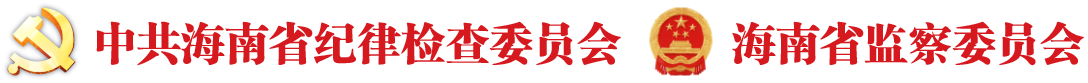
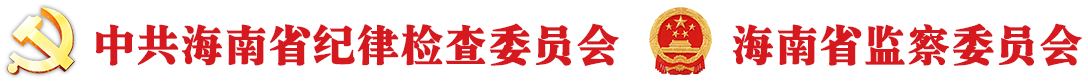
与开发代码同步

diff --git a/lzw/v2/css/ztjj.css b/lzw/v2/css/ztjj.css
@@ -1,0 +1,94 @@
+.wh100 {
+  width: 100%;
+}
+.no-left-border {
+  border-left: none;
+}
+.no-bottom-border {
+  border-bottom: none;
+}
+.lzw-info-content .lzw-info-list-wrap .list-top {
+  margin-top: 24px;
+  margin-bottom: 24px;
+  min-height: 316px;
+  padding: 0 48px;
+}
+.lzw-info-content .lzw-info-list-wrap .list-top .lzw-info-list-item {
+  width: 100%;
+}
+.lzw-info-content .lzw-info-list-wrap .list-top .lzw-info-list-item .item-img {
+  /*border-bottom: 1px dashed #ccc;*/
+  padding: 12px 0;
+}
+.lzw-info-content .lzw-info-list-wrap .list-top .lzw-info-list-item a {
+  width: 100%;
+}
+.lzw-info-content .lzw-info-list-wrap .list-top .lzw-info-list-item img {
+  width: calc(100% - 60px);
+  height: 100px;
+}
+.jfbg-model-class {
+  border-bottom: 1px solid #1e41b9;
+  height: 48px;
+}
+.list-top-title {
+  background-color: #064EC0;
+  font-size: 22px;
+  line-height: 48px;
+  float: left;
+  color: #fff;
+  text-align: center;
+  height: 48px;
+  vertical-align: middle;
+  padding: 0 12px;
+  letter-spacing: 2px;
+  font-weight: 400;
+}
+.list-more {
+  font-size: 16px;
+  color: #1e41b9;
+  float: right;
+  vertical-align: bottom;
+  line-height: 48px;
+  height: 18px;
+  margin-right: 24px;
+}
+.list-top .title {
+  display: flex;
+  justify-content: flex-start;
+  align-items: center;
+}
+.list-top .title p {
+  display: flex;
+  align-items: center;
+}
+.list-top .title p i {
+  display: inline-block;
+  height: 20px;
+  width: 8px;
+  background-color: #064ec0;
+  margin-top: 2px;
+}
+.list-top .title p a {
+  color: #064ec0;
+  font-size: 24px;
+  font-weight: bold;
+  margin: 0 18px 0 12px;
+  width: auto;
+  max-width: 580px;
+  white-space: nowrap;
+  text-overflow: ellipsis;
+  overflow: hidden;
+}
+.list-top .title .fg {
+  display: inline-block;
+  height: 4px;
+  background-color: #ECEEEF;
+  border-radius: 1px;
+  min-width: 20px;
+}
+.list-top .title .more {
+  margin: 0 40px 0px 18px;
+  width: auto;
+}
+/*# sourceMappingURL=ztjj.css.map */

diff --git a/lzw/v2/css/ztjj.less b/lzw/v2/css/ztjj.less
@@ -1,0 +1,110 @@
+.wh100 {
+  width: 100%;
+}
+.no-left-border {
+  border-left: none;
+}
+.no-bottom-border {
+  border-bottom: none;
+}
+.lzw-info-content {
+  .lzw-info-list-wrap {
+    .list-top {
+      margin-top: 24px;
+      margin-bottom: 24px;
+      min-height: 316px;
+      padding: 0 48px;
+      .lzw-info-list-item {
+        width: 100%;
+        .item-img{
+            /*border-bottom: 1px dashed #ccc;*/
+          padding: 12px 0;
+        }
+         a{
+           width: 100%;
+         }
+          img {
+            width: calc(100% - 60px);
+            height: 100px
+          }
+      }
+    }
+  }
+}
+
+
+.jfbg-model-class {
+  border-bottom: 1px solid #1e41b9;
+  height: 48px;
+}
+
+.list-top-title {
+  background-color: #064EC0;
+  font-size: 22px;
+  line-height: 48px;
+  float: left;
+  color: #fff;
+  text-align: center;
+  height: 48px;
+  vertical-align: middle;
+  padding: 0 12px;
+  letter-spacing: 2px;
+  font-weight: 400;
+}
+
+.list-more {
+  font-size: 16px;
+  color: #1e41b9;;
+  float: right;
+  vertical-align: bottom;
+  line-height: 48px;
+  height: 18px;
+  margin-right: 24px;
+
+}
+
+.list-top .title {
+  display: flex;
+  justify-content: flex-start;
+  align-items: center;
+}
+
+.list-top .title p {
+  display: flex;
+  align-items: center;
+}
+
+.list-top .title p i {
+  display: inline-block;
+  height: 20px;
+  width: 8px;
+  background-color: #064ec0;
+  margin-top: 2px;
+}
+
+.list-top .title p a {
+  color: #064ec0;
+  font-size: 24px;
+  font-weight: bold;
+  margin: 0 18px 0 12px;
+  width: auto;
+  max-width: 580px;
+  white-space: nowrap;
+  text-overflow: ellipsis;
+  overflow: hidden;
+}
+
+.list-top .title .fg {
+  display: inline-block;
+  height: 4px;
+  background-color: #ECEEEF;
+  border-radius: 1px;
+  min-width: 20px;
+}
+
+.list-top .title .more {
+  margin: 0 40px 0px 18px;
+  width: auto;
+
+}
+

diff --git a/lzw/v2/css/jdjb.css b/lzw/v2/css/jdjb.css
@@ -1,16 +1,18 @@
 .lzw-detail-content-wrap .jbbg {
-  background: url(../imgs/jbbg.png) no-repeat;
-  background-size: cover;
-  height: 270px;
+  /* background: url(../imgs/jbbg.png) no-repeat;
+    background-size: cover;*/
+  background: #fff;
+  height: 150px;
   display: flex;
   justify-content: center;
   align-items: center;
+  border-bottom: 4px solid #ccc;
 }
 .lzw-detail-content-wrap .jbbg .jbcx {
-  background: url("../imgs/tbbj.png") no-repeat;
-  background-size: cover;
-  width: 232px;
-  height: 98px;
+  /* background: url("../imgs/tbbj.png") no-repeat;
+      background-size: cover;
+      width: 232px;
+      height: 98px;*/
   margin-right: 72px;
   display: flex;
   justify-content: center;
@@ -28,11 +30,13 @@
   color: #fff;
 }
 .lzw-detail-content-wrap .jbbg .jbcx .wyjb-add {
-  background: url("../imgs/jbed.png") no-repeat;
-  background-size: cover;
-  width: 38px;
-  height: 34px;
+  /* background: url("../imgs/jbed.png") no-repeat;
+        background-size: cover;*/
   margin-right: 10px;
+}
+.lzw-detail-content-wrap .jbbg .jbcx .wyjb-add img {
+  width: 100%;
+  height: 100%;
 }
 .lzw-detail-content-wrap .list {
   margin-top: 42px;
@@ -61,7 +65,7 @@
 }
 .lzw-detail-content-wrap .list .title .fg {
   display: inline-block;
-  height: 2px;
+  height: 4px;
   width: 842px;
   background-color: #ECEEEF;
   border-radius: 1px;

diff --git a/lzw/v2/css/jdjb.less b/lzw/v2/css/jdjb.less
@@ -1,16 +1,18 @@
 .lzw-detail-content-wrap {
   .jbbg {
-    background: url(../imgs/jbbg.png) no-repeat;
-    background-size: cover;
-    height: 270px;
+   /* background: url(../imgs/jbbg.png) no-repeat;
+    background-size: cover;*/
+    background: #fff;
+    height: 150px;
     display: flex;
     justify-content: center;
     align-items: center;
+    border-bottom: 4px solid #ccc;
     .jbcx{
-      background: url("../imgs/tbbj.png") no-repeat;
+     /* background: url("../imgs/tbbj.png") no-repeat;
       background-size: cover;
       width: 232px;
-      height: 98px;
+      height: 98px;*/
       margin-right: 72px;
       display: flex;
       justify-content: center;
@@ -27,11 +29,14 @@
         color: #fff;
       }
       .wyjb-add{
-        background: url("../imgs/jbed.png") no-repeat;
-        background-size: cover;
-        width: 38px;
-        height: 34px;
+       /* background: url("../imgs/jbed.png") no-repeat;
+        background-size: cover;*/
+
         margin-right: 10px;
+        img {
+          width: 100%;
+          height: 100%;
+        }
       }
 
 
@@ -68,7 +73,7 @@
 
       .fg {
         display: inline-block;
-        height: 2px;
+        height: 4px;
         width: 842px;
         background-color: #ECEEEF;
         border-radius: 1px;

diff --git a/lzw/v2/css/level2List.css b/lzw/v2/css/level2List.css
@@ -33,3 +33,41 @@
     margin-right: 24px;
 
 }
+.list-top .title {
+    display: flex;
+    justify-content: flex-start;
+    align-items: center;
+}
+.list-top .title p {
+    display: flex;
+    align-items: center;
+}
+.list-top .title p i {
+    display: inline-block;
+    height: 20px;
+    width: 8px;
+    background-color: #064ec0;
+    margin-top: 2px;
+}
+.list-top .title p a {
+    color: #064ec0;
+    font-size: 24px;
+    font-weight: bold;
+    margin: 0 18px 0 12px;
+    width: auto;
+    max-width: 580px;
+    white-space: nowrap;
+    text-overflow: ellipsis;
+    overflow: hidden;
+}
+.list-top .title .fg {
+    display: inline-block;
+    height: 4px;
+    background-color: #ECEEEF;
+    border-radius: 1px;
+}
+.list-top .title .more {
+    margin: 0 40px 0px 18px;
+    width: auto;
+
+}

diff --git a/lzw/v2/css/topic.css b/lzw/v2/css/topic.css
@@ -22,12 +22,13 @@
     display: -moz-box;
     display: -webkit-flex;
     justify-content: space-between;
-    width: 480px;
+    width: 100%;
     flex-direction: column;
     margin: 6px 12px;
 }
 .zt-item img{
-    width: 480px;
+    /*width: 480px;*/
+    width: 100%;
     height: 100px;
 }
 .zt-item span {

diff --git a/lzw/v2/css/index.css b/lzw/v2/css/index.css
@@ -414,12 +414,6 @@
   width: 100%;
   flex: 1;
   cursor: pointer;
-  
-}
-.main .khn-box .khn-content .khn-rotaion-box .khn-swiper img {
-  width: calc(100% - 12px);
-  margin: 6px 0 10px;
-  height: 158px;
 }
 .main .khn-box .khn-content .khn-rotaion-box .khn-swiper p {
   padding: 0 1.6em;

diff --git a/lzw/v2/css/head.css b/lzw/v2/css/head.css
@@ -40,7 +40,7 @@
     cursor: pointer;
 }
 .header .website-title {
-    width: 1100px;
+    width: 1088px;
     height: 83px;
     margin: 29px 0 27px;
     background: url('../imgs/title.png');

diff --git a/lzw/v2/css/common.css b/lzw/v2/css/common.css
@@ -4,7 +4,7 @@
     min-height: 100vh;
     display: flex;
     flex-direction: column;
-    font-family: '宋体';
+    font-family: 'Microsoft YaHei';
 }
 .header {
     display: flex;
